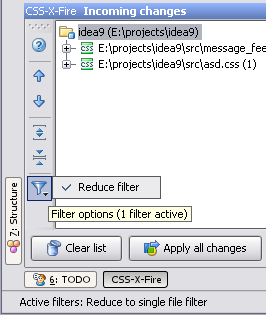
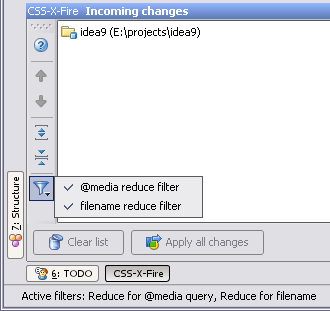
Updated help page with media query filter

Changed region(s): [[0.0, 0.0, 1.0, 1.0]]

diff --git a/resources/com/googlecode/cssxfire/www/about.html b/resources/com/googlecode/cssxfire/www/about.html
@@ -32,10 +32,14 @@
         </div>
         <div><img src="/files/css-x-fire-4.png" alt="Jump-to-source" /></div>
         <div>&nbsp;</div>
-        <div>
-            <b>Reduce filter:</b> When checked, all incoming changes will be filtered down to one single target file instead of all matching selectors<br/>
-            in the project, if this file can be determined from the filename provided by Firebug.<br/>
-        </div>
+            <div>
+                <b>Media query reduce filter:</b> When checked, all incoming changes will be filtered down to the selectors matching the media query.
+            </div>
+        <div>&nbsp;</div>
+            <div>
+                <b>Filename reduce filter:</b> When checked, all incoming changes will be filtered down to files with a given filename, if these files can be<br/>
+                determined from the filename provided by Firebug.<br/>
+            </div>
         <div>&nbsp;</div>
 
         <div><img src="/files/css-x-fire-3.png" alt="Reduce filter" /></div>
